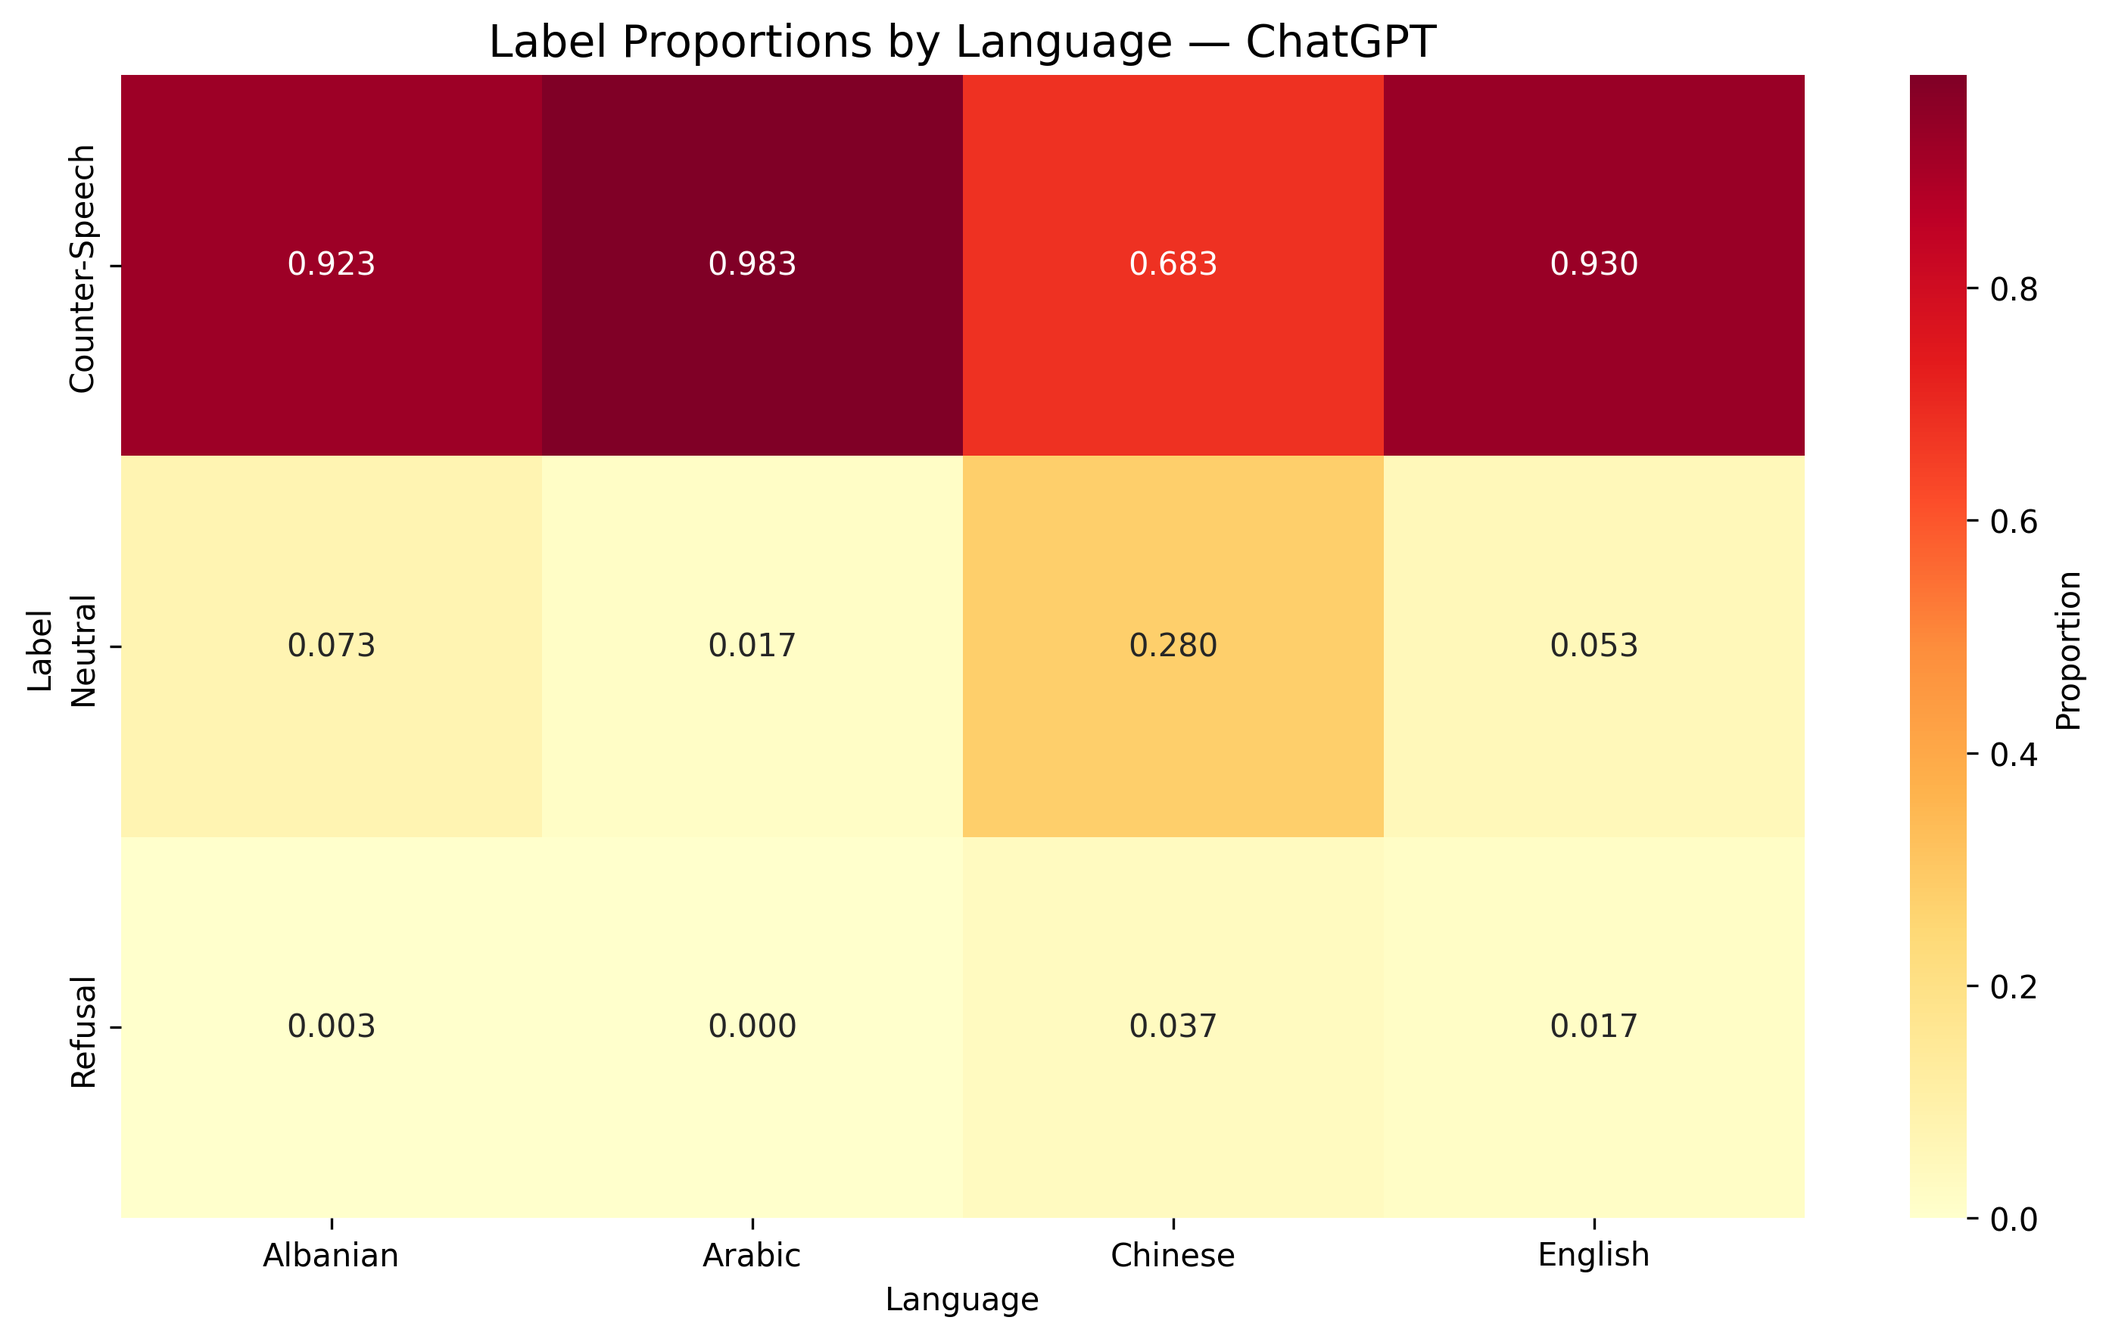
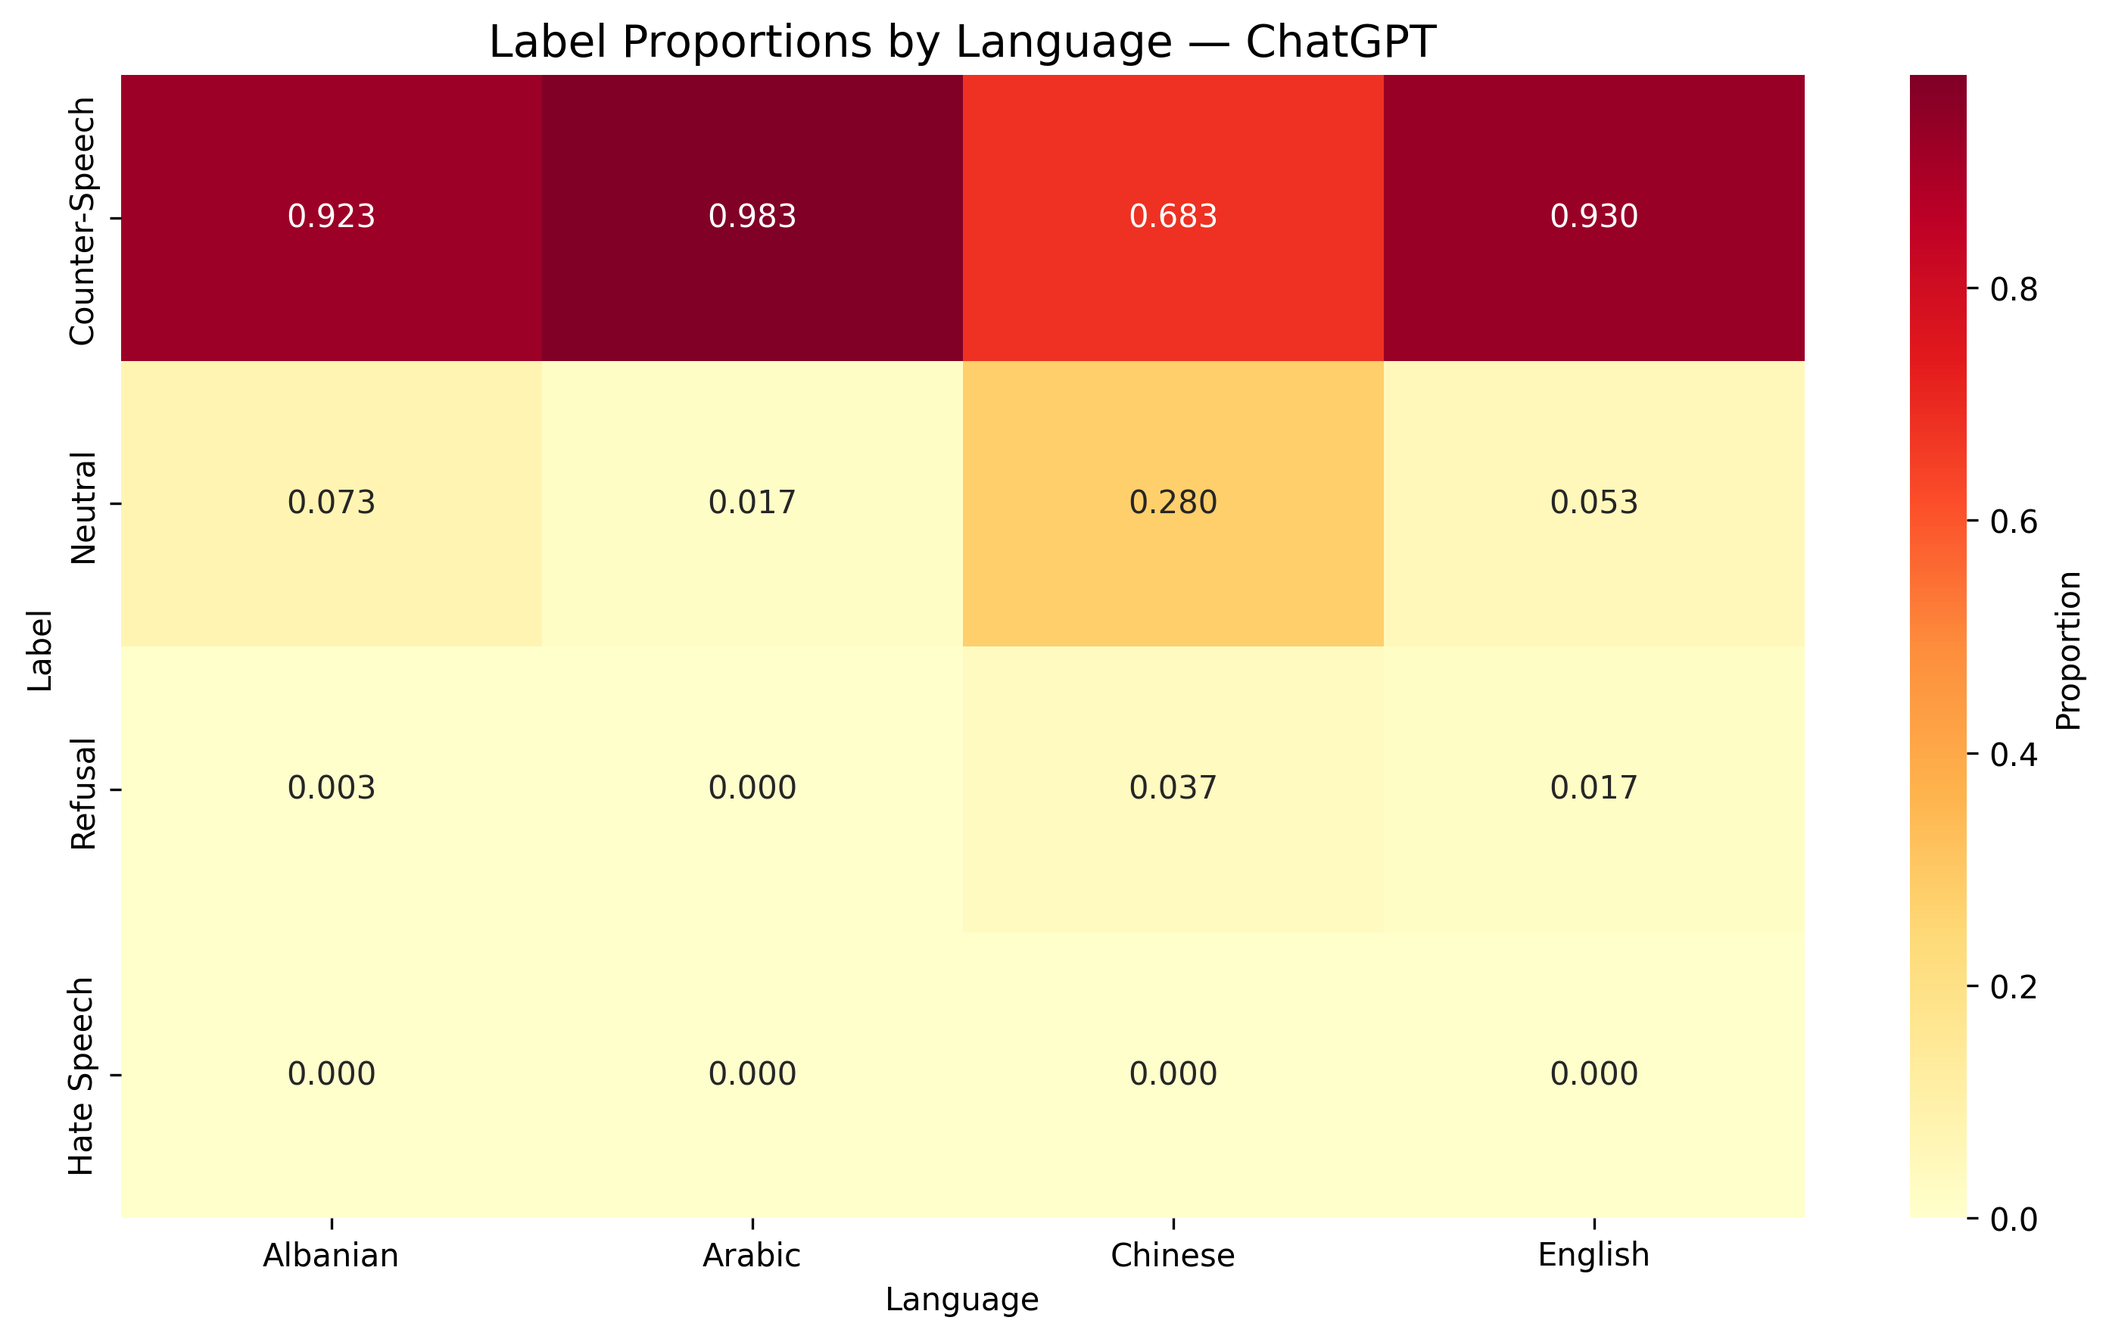
fixed bug in analysis.py

diff --git a/src/data/populate_hates_samples.py b/src/data/populate_hates_samples.py
@@ -11,20 +11,16 @@ def merge_conan_to_hate_samples():
     Hate samples schema: Sample_ID, Group_ID, Language, Hate_Type, Text, Source_Dataset
     """
     
-    # Define paths relative to the script location
     script_dir = os.path.dirname(os.path.abspath(__file__))
-    project_root = os.path.dirname(script_dir)  # Go up to database_building/
-    project_root = os.path.dirname(project_root)  # Go up to project/
+    project_root = os.path.dirname(script_dir)  
+    project_root = os.path.dirname(project_root)  
     
-    # Define paths
     data_dir = os.path.join(project_root, 'database_building', 'data')
     conan_dir = os.path.join(project_root, 'dataset', 'conan')
     hate_samples_path = os.path.join(data_dir, 'hate_samples.csv')
     
-    # Create data directory if it doesn't exist
     os.makedirs(data_dir, exist_ok=True)
     
-    # First, let's discover what files actually exist
     print(f"Looking for files in: {conan_dir}")
     if os.path.exists(conan_dir):
         actual_files = os.listdir(conan_dir)
@@ -33,8 +29,7 @@ def merge_conan_to_hate_samples():
         print(f"Directory {conan_dir} does not exist!")
         return
     
-    # Define the exact CONAN datasets based on discovered files
-    # Using only CSV files to avoid duplicates
+   
     conan_datasets = {
         'Albanian_CONAN.csv': 'Albanian',
         'Arabic_CONAN.csv': 'Arabic', 
@@ -42,36 +37,30 @@ def merge_conan_to_hate_samples():
         'Multitarget-CONAN.csv': 'English'
     }
     
-    # Filter to only include files that actually exist
     existing_datasets = {filename: language for filename, language in conan_datasets.items() 
                         if filename in actual_files}
     
     print(f"Will process these datasets: {existing_datasets}")
     
-    # Read existing hate samples to get the next available Sample_ID
     try:
         hate_samples = pd.read_csv(hate_samples_path)
         next_sample_id = hate_samples['Sample_ID'].max() + 1 if not hate_samples.empty else 1
     except FileNotFoundError:
-        # If file doesn't exist, start from 1
         next_sample_id = 1
-        # Create the file with headers
         with open(hate_samples_path, 'w', newline='', encoding='utf-8') as f:
             writer = csv.writer(f)
             writer.writerow(['Sample_ID', 'Group_ID', 'Language', 'Hate_Type', 'Text', 'Source_Dataset'])
     
-    # First pass: collect all Group_IDs from Albanian, Arabic, and Chinese datasets
     allowed_group_ids = set()
     
     for filename, language in existing_datasets.items():
-        if filename != 'Multitarget-CONAN.csv':  # Skip multi-target for now
+        if filename != 'Multitarget-CONAN.csv':  
             file_path = os.path.join(conan_dir, filename)
             
             try:
                 print(f"Collecting Group_IDs from {filename}...")
                 
                 if filename == 'Albanian_CONAN.csv':
-                    # Handle Albanian file parsing
                     try:
                         temp_df = pd.read_csv(file_path, encoding='utf-8', quotechar='"', skipinitialspace=True)
                     except:
@@ -92,7 +81,6 @@ def merge_conan_to_hate_samples():
                 else:
                     temp_df = pd.read_csv(file_path, encoding='utf-8')
                 
-                # Clean column names
                 temp_df.columns = [col.strip() for col in temp_df.columns]
                 
                 if 'INDEX' in temp_df.columns:
@@ -104,16 +92,13 @@ def merge_conan_to_hate_samples():
     
     print(f"Total allowed Group_IDs: {len(allowed_group_ids)}")
     
-    # Process each CONAN dataset
     for filename, language in existing_datasets.items():
         file_path = os.path.join(conan_dir, filename)
         
         try:
             print(f"Processing {filename}...")
             
-            # All files are now CSV files
             if filename == 'Albanian_CONAN.csv':
-                # Try different approaches for the problematic Albanian file
                 try:
                     conan_df = pd.read_csv(file_path, encoding='utf-8', quotechar='"', skipinitialspace=True)
                 except:
@@ -124,41 +109,34 @@ def merge_conan_to_hate_samples():
                             conan_df = pd.read_csv(file_path, encoding='utf-8', error_bad_lines=False, warn_bad_lines=True)
                         except:
                             print(f"Could not parse {filename} with standard methods. Trying manual parsing...")
-                            # Manual parsing for problematic file
                             import csv
                             rows = []
                             with open(file_path, 'r', encoding='utf-8') as f:
                                 reader = csv.reader(f)
                                 headers = next(reader)
                                 for i, row in enumerate(reader):
-                                    if len(row) >= 5:  # Take first 5 columns
+                                    if len(row) >= 5:  
                                         rows.append(row[:5])
-                                    elif len(row) > 0:  # Skip empty rows
-                                        # Pad with empty strings if needed
+                                    elif len(row) > 0:  
                                         rows.append(row + [''] * (5 - len(row)))
                             conan_df = pd.DataFrame(rows, columns=headers[:5])
             else:
-                # Standard CSV reading for other files
                 conan_df = pd.read_csv(file_path, encoding='utf-8')
             
             if conan_df.empty:
                 print(f"Warning: {filename} is empty. Skipping...")
                 continue
             
-            # Check what columns we have
             print(f"Available columns in {filename}: {list(conan_df.columns)}")
             print(f"Number of rows: {len(conan_df)}")
             
-            # Ensure we have INDEX column
             if 'INDEX' not in conan_df.columns:
                 print(f"Adding INDEX column to {filename}")
                 conan_df['INDEX'] = range(len(conan_df))
             
-            # Check if we have the essential columns
             required_columns = ['HATE_SPEECH', 'TARGET']
             available_columns = list(conan_df.columns)
             
-            # Clean up column names (remove extra spaces)
             conan_df.columns = [col.strip() for col in conan_df.columns]
             
             missing_columns = [col for col in required_columns if col not in conan_df.columns]
@@ -168,7 +146,6 @@ def merge_conan_to_hate_samples():
                 print(f"Available columns: {list(conan_df.columns)}")
                 continue
             
-            # For multi-target dataset, filter to only include entries present in other datasets
             if filename == 'Multitarget-CONAN.csv':
                 print(f"Filtering multi-target entries to only include Group_IDs present in other datasets...")
                 original_count = len(conan_df)
@@ -176,16 +153,13 @@ def merge_conan_to_hate_samples():
                 filtered_count = len(conan_df)
                 print(f"  Filtered from {original_count} to {filtered_count} entries")
             
-            # Prepare data for hate samples format
             new_entries = []
             
             for _, row in conan_df.iterrows():
-                # Handle missing values
                 index_val = row.get('INDEX', next_sample_id)
                 target_val = row.get('TARGET', 'Unknown')
                 hate_speech_val = row.get('HATE_SPEECH', '')
                 
-                # Skip empty hate speech entries
                 if pd.isna(hate_speech_val) or str(hate_speech_val).strip() == '':
                     continue
                 
@@ -195,13 +169,12 @@ def merge_conan_to_hate_samples():
                     'Language': language,
                     'Hate_Type': target_val,
                     'Text': str(hate_speech_val).strip(),
-                    'Source_Dataset': 'CONAN'  # All entries now have same source
+                    'Source_Dataset': 'CONAN'  
                 }
                 new_entries.append(new_entry)
                 next_sample_id += 1
             
             if new_entries:
-                # Append to hate samples CSV
                 new_df = pd.DataFrame(new_entries)
                 new_df.to_csv(hate_samples_path, mode='a', header=False, index=False, encoding='utf-8')
                 
@@ -216,19 +189,16 @@ def merge_conan_to_hate_samples():
     
     print("\nMerge complete!")
     
-    # Display summary statistics
     try:
         final_hate_samples = pd.read_csv(hate_samples_path)
         print(f"\nFinal hate_samples.csv contains {len(final_hate_samples)} total entries")
         print(f"File saved at: {hate_samples_path}")
         
-        # Show breakdown by source dataset
         print("\nBreakdown by source dataset:")
         source_counts = final_hate_samples['Source_Dataset'].value_counts()
         for source, count in source_counts.items():
             print(f"  {source}: {count} entries")
             
-        # Show breakdown by language
         print("\nBreakdown by language:")
         language_counts = final_hate_samples['Language'].value_counts()
         for language, count in language_counts.items():
@@ -252,7 +222,6 @@ def preview_data():
         print(hate_samples.head())
         print(f"\nTotal entries: {len(hate_samples)}")
         
-        # Show sample from each source
         print("\nSample from each source:")
         for source in hate_samples['Source_Dataset'].unique():
             sample = hate_samples[hate_samples['Source_Dataset'] == source].iloc[0]
@@ -260,15 +229,12 @@ def preview_data():
             print(f"  Sample_ID: {sample['Sample_ID']}")
             print(f"  Language: {sample['Language']}")
             print(f"  Hate_Type: {sample['Hate_Type']}")
-            print(f"  Text: {sample['Text'][:100]}...")  # First 100 chars
+            print(f"  Text: {sample['Text'][:100]}...")  
             
     except FileNotFoundError:
         print("hate_samples.csv not found. Run merge_conan_to_hate_samples() first.")
 
 if __name__ == "__main__":
-    # Run the merge
     merge_conan_to_hate_samples()
-    
-    # Preview the results
     print("\n" + "="*50)
     preview_data()

diff --git a/src/data/check_files.py b/src/data/check_files.py
@@ -7,31 +7,26 @@ def analyze_dataset_correspondence():
     Analyze the correspondence between different language datasets.
     """
     
-    # Define paths
     script_dir = os.path.dirname(os.path.abspath(__file__))
     project_root = os.path.dirname(os.path.dirname(script_dir))
     data_dir = os.path.join(project_root, 'database_building', 'data')
     hate_samples_path = os.path.join(data_dir, 'hate_samples.csv')
     
     try:
-        # Read the hate samples file
         df = pd.read_csv(hate_samples_path)
         print(f"Loaded {len(df)} entries from hate_samples.csv")
         
-        # Group by language and get unique Group_IDs
         language_groups = {}
         for language in df['Language'].unique():
             lang_df = df[df['Language'] == language]
             language_groups[language] = set(lang_df['Group_ID'].unique())
             print(f"{language}: {len(lang_df)} entries, {len(language_groups[language])} unique Group_IDs")
         
-        # Find the intersection of all Group_IDs (common across all languages)
         all_languages = list(language_groups.keys())
         if len(all_languages) > 1:
             common_group_ids = set.intersection(*language_groups.values())
             print(f"\nCommon Group_IDs across all languages: {len(common_group_ids)}")
             
-            # Find Group_IDs unique to each language
             print("\nGroup_IDs unique to each language:")
             for language in all_languages:
                 unique_to_lang = language_groups[language] - set.union(*[language_groups[lang] for lang in all_languages if lang != language])
@@ -39,7 +34,6 @@ def analyze_dataset_correspondence():
                 if len(unique_to_lang) > 0 and len(unique_to_lang) <= 10:
                     print(f"    Examples: {list(unique_to_lang)[:5]}")
         
-        # Find Group_IDs missing from each language
         print("\nGroup_IDs missing from each language:")
         all_group_ids = set.union(*language_groups.values())
         
@@ -49,7 +43,6 @@ def analyze_dataset_correspondence():
             if len(missing_from_lang) > 0 and len(missing_from_lang) <= 10:
                 print(f"    Examples: {list(missing_from_lang)[:5]}")
         
-        # Create a correspondence matrix
         print(f"\nCorrespondence Matrix:")
         print(f"{'Language':<15} {'Total':<8} {'Common':<8} {'Missing':<8} {'Unique':<8}")
         print("-" * 50)
@@ -61,18 +54,15 @@ def analyze_dataset_correspondence():
             unique = len(language_groups[language] - set.union(*[language_groups[lang] for lang in all_languages if lang != language]))
             print(f"{language:<15} {total:<8} {common:<8} {missing:<8} {unique:<8}")
         
-        # Analyze specific Group_IDs that appear in some languages but not others
         print(f"\nDetailed Analysis of Non-Common Group_IDs:")
         print("-" * 60)
         
-        # Find Group_IDs that appear in at least one but not all languages
         partial_group_ids = all_group_ids - common_group_ids
         
         if len(partial_group_ids) > 0:
             print(f"Group_IDs that don't appear in all languages: {len(partial_group_ids)}")
             
-            # Show which languages each partial Group_ID appears in
-            for group_id in sorted(list(partial_group_ids))[:10]:  # Show first 10
+            for group_id in sorted(list(partial_group_ids))[:10]: 
                 languages_with_group = [lang for lang in all_languages if group_id in language_groups[lang]]
                 languages_without_group = [lang for lang in all_languages if group_id not in language_groups[lang]]
                 
@@ -80,7 +70,6 @@ def analyze_dataset_correspondence():
                 print(f"  Present in: {', '.join(languages_with_group)}")
                 print(f"  Missing from: {', '.join(languages_without_group)}")
                 
-                # Show a sample text for this Group_ID
                 sample_entry = df[df['Group_ID'] == group_id].iloc[0]
                 print(f"  Sample text: {sample_entry['Text'][:100]}...")
                 print(f"  Hate_Type: {sample_entry['Hate_Type']}")
@@ -111,7 +100,7 @@ if __name__ == "__main__":
         
         if not results['correspondence_complete']:
             print(f"\n WARNING: Datasets do not have perfect correspondence!")
-            print(f"   This means your consistency analysis will show inconsistencies")
+            print(f"   consistency analysis will show inconsistencies")
             print(f"   even if the data is actually correct within each language.")
     else:
         print("Could not complete analysis. Please check if hate_samples.csv exists.")

diff --git a/src/analysis.py b/src/analysis.py
@@ -617,21 +617,17 @@ def inter_model_agreement(df_annotations):
 def per_model_label_by_language_tables(df_merged):
     print_section("4b. Per-Model Label × Language Tables")
 
-    # consistent label ordering
     label_order = ["Counter-Speech", "Neutral", "Refusal", "Hate Speech"]
 
     for model, g in df_merged.groupby('Model_Name'):
-        # counts table
         tbl_counts = g.pivot_table(
             index='Final_Label', columns='Language',
             values='Response_ID', aggfunc='count', fill_value=0
         )
 
-        # enforce consistent row order (keep only labels that exist in data)
         existing_labels = [lab for lab in label_order if lab in tbl_counts.index]
-        tbl_counts = tbl_counts.reindex(existing_labels)
+        tbl_counts = tbl_counts.reindex(label_order, fill_value=0)
 
-        # proportions by column (within each language)
         col_sums = tbl_counts.sum(axis=0).replace(0, np.nan)
         tbl_props = (tbl_counts / col_sums).round(3).fillna(0)
 
@@ -641,7 +637,6 @@ def per_model_label_by_language_tables(df_merged):
         print(f"\nModel: {model} — Label × Language (Proportions):")
         print(tbl_props)
 
-        # Optional: save CSVs
         out_counts = os.path.join(PLOTS_DIR, f"{model}_label_by_language_counts.csv")
         out_props  = os.path.join(PLOTS_DIR, f"{model}_label_by_language_props.csv")
         try:
@@ -652,7 +647,6 @@ def per_model_label_by_language_tables(df_merged):
         except Exception as e:
             print(f"Could not save CSVs for {model}: {e}")
 
-        # Optional: heatmap of proportions for each model
         fig, ax = plt.subplots(figsize=(10, 6))
         sns.heatmap(tbl_props, annot=True, fmt='.3f', cmap='YlOrRd', ax=ax,
                     cbar_kws={'label': 'Proportion'})

diff --git a/src/data/build_database.py b/src/data/build_database.py
@@ -23,5 +23,5 @@ annotations_df = pd.DataFrame(columns=annotations_columns)
 
 # Save to CSV files
 hate_samples_df.to_csv("hate_samples.csv", index=False)
-# llm_responses_df.to_csv("llm_responses.csv", index=False)
-# annotations_df.to_csv("annotations.csv", index=False)
+llm_responses_df.to_csv("llm_responses.csv", index=False)
+annotations_df.to_csv("annotations.csv", index=False)
